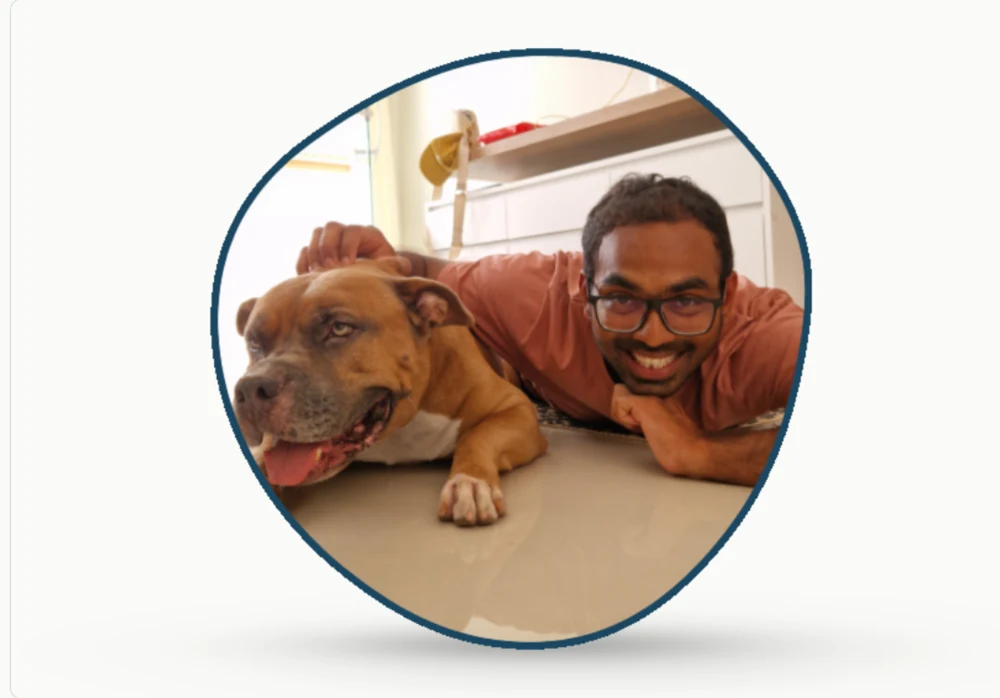
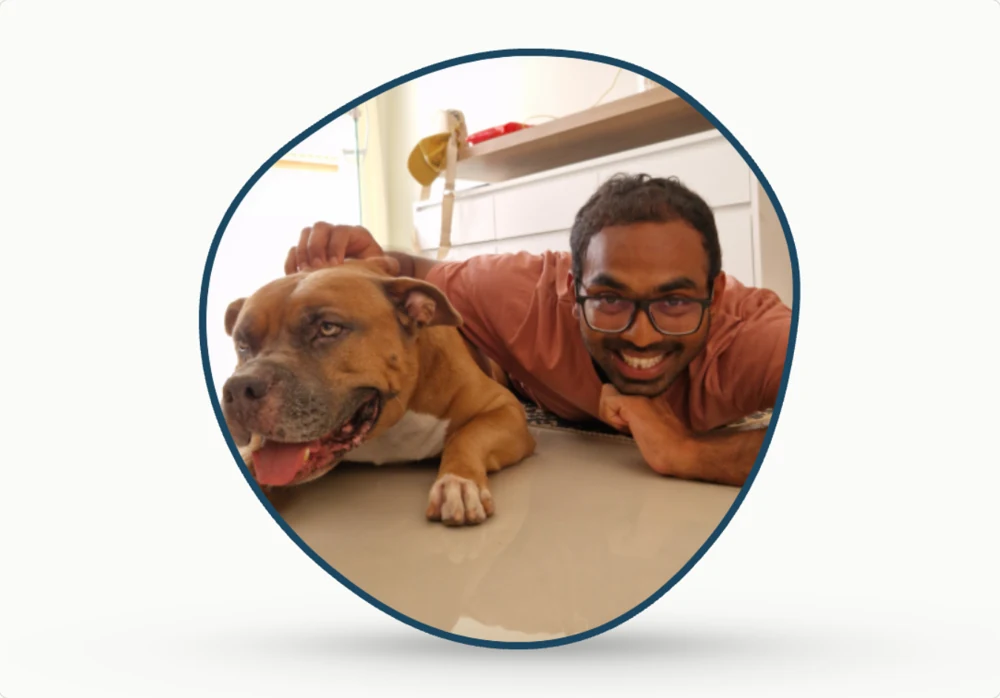
improved the Teaching page and CNRS model

Changed region(s): [[0.186, 0.0602, 0.837, 0.9327]]

diff --git a/projects/cnrs_site/projects/main/tour/src/mark.js b/projects/cnrs_site/projects/main/tour/src/mark.js
@@ -230,8 +230,10 @@ void main(){
     } catch {
       // The CNRS face remains usable if the portrait cannot be downloaded.
     }
-    const W = 1440,
-      H = 810,
+    // Sharpen the render without adding geometry or downloading larger assets.
+    // This target has 1.78x the previous pixel count (1440 x 810).
+    const W = 1920,
+      H = 1080,
       fb = g.createFramebuffer(),
       image = g.createTexture();
     g.activeTexture(g.TEXTURE0 + 8);
@@ -249,6 +251,33 @@ void main(){
     g.framebufferRenderbuffer(g.FRAMEBUFFER, g.DEPTH_ATTACHMENT, g.RENDERBUFFER, depth);
     if (g.checkFramebufferStatus(g.FRAMEBUFFER) !== g.FRAMEBUFFER_COMPLETE)
       throw Error('Mark target');
+    // Context antialiasing does not cover offscreen framebuffers. Multisample
+    // the badge itself, then resolve into the texture shared with the office.
+    // Keep the ordinary target for devices without compatible sample counts.
+    const colorSamples = g.getInternalformatParameter(g.RENDERBUFFER, g.RGBA8, g.SAMPLES),
+      depthSamples = g.getInternalformatParameter(g.RENDERBUFFER, g.DEPTH_COMPONENT16, g.SAMPLES),
+      samples = Math.max(0, ...colorSamples.filter((n) => n > 1 && n <= 4 && depthSamples.includes(n)));
+    let drawTarget = fb;
+    if (samples) {
+      const target = g.createFramebuffer(),
+        color = g.createRenderbuffer(),
+        depth = g.createRenderbuffer();
+      g.bindFramebuffer(g.FRAMEBUFFER, target);
+      for (const [buffer, format, attachment] of [
+        [color, g.RGBA8, g.COLOR_ATTACHMENT0],
+        [depth, g.DEPTH_COMPONENT16, g.DEPTH_ATTACHMENT],
+      ]) {
+        g.bindRenderbuffer(g.RENDERBUFFER, buffer);
+        g.renderbufferStorageMultisample(g.RENDERBUFFER, samples, format, W, H);
+        g.framebufferRenderbuffer(g.FRAMEBUFFER, attachment, g.RENDERBUFFER, buffer);
+      }
+      if (g.checkFramebufferStatus(g.FRAMEBUFFER) === g.FRAMEBUFFER_COMPLETE) drawTarget = target;
+      else {
+        g.deleteFramebuffer(target);
+        g.deleteRenderbuffer(color);
+        g.deleteRenderbuffer(depth);
+      }
+    }
     g.bindFramebuffer(g.FRAMEBUFFER, null);
     const sky = program(
         `#version 300 es
@@ -294,7 +323,7 @@ precision highp float;in vec2 st;uniform vec2 offset;out vec4 col;void main(){ve
           sp = Math.sin(pitch),
           shift = [mx, my];
         pose = { yaw, pitch, mx, my };
-        g.bindFramebuffer(g.FRAMEBUFFER, fb);
+        g.bindFramebuffer(g.FRAMEBUFFER, drawTarget);
         g.viewport(0, 0, W, H);
         g.disable(g.DEPTH_TEST);
         g.disable(g.CULL_FACE);
@@ -329,6 +358,11 @@ precision highp float;in vec2 st;uniform vec2 offset;out vec4 col;void main(){ve
           g.drawElements(g.TRIANGLES, o.count, g.UNSIGNED_SHORT, 0);
         }
         g.disable(g.CULL_FACE);
+        if (drawTarget !== fb) {
+          g.bindFramebuffer(g.READ_FRAMEBUFFER, drawTarget);
+          g.bindFramebuffer(g.DRAW_FRAMEBUFFER, fb);
+          g.blitFramebuffer(0, 0, W, H, 0, 0, W, H, g.COLOR_BUFFER_BIT, g.NEAREST);
+        }
         g.bindFramebuffer(g.FRAMEBUFFER, null);
         g.activeTexture(g.TEXTURE0 + 8);
         g.bindTexture(g.TEXTURE_2D, image);

diff --git a/projects/cnrs_site/projects/main/tour/index.html b/projects/cnrs_site/projects/main/tour/index.html
@@ -9,7 +9,7 @@
       content="A spatial portrait of robotics research. Pull back from a clay mark to a workstation, a laboratory, IHU Strasbourg, the city, France and Earth."
     />
     <title>Research Atlas — Durgesh H. Salunkhe</title>
-    <link rel="stylesheet" href="src/style.css?v=bba729c55259" />
+    <link rel="stylesheet" href="src/style.css?v=409917cead5c" />
     <script>
       if (location.hash === '#mini' || location.hash === '#mini-robot')
         document.documentElement.classList.add('atlas-mini');
@@ -75,7 +75,7 @@
         max-height: 88vh;
       }
     </style>
-    <link rel="stylesheet" href="src/bridge.css?v=bba729c55259" />
+    <link rel="stylesheet" href="src/bridge.css?v=409917cead5c" />
   </head>
   <body>
     <main class="shell">
@@ -559,7 +559,7 @@
       </div>
     </dialog>
     <script>
-      window.ATLAS_VERSION = 'bba729c55259';
+      window.ATLAS_VERSION = '409917cead5c';
     </script>
     <script>
       window.ATLAS_ASSETS = {
@@ -1137,20 +1137,20 @@
         },
       };
     </script>
-    <script src="src/orbital.js?v=bba729c55259"></script>
-    <script src="src/controls.js?v=bba729c55259"></script>
-    <script src="src/careers.js?v=bba729c55259"></script>
-    <script id="ik-kernel" src="src/kinematics.js?v=bba729c55259"></script>
-    <script src="src/playview.js?v=bba729c55259"></script>
-    <script src="src/mark.js?v=bba729c55259"></script>
-    <script src="src/glass.js?v=bba729c55259"></script>
-    <script src="src/playui.js?v=bba729c55259"></script>
-    <script src="src/renderer.js?v=bba729c55259"></script>
-    <script src="src/environment.js?v=bba729c55259"></script>
-    <script src="src/records.js?v=bba729c55259"></script>
-    <script src="src/city.js?v=bba729c55259"></script>
-    <script src="src/progressive.js?v=bba729c55259"></script>
-    <script src="src/tour.js?v=bba729c55259"></script>
+    <script src="src/orbital.js?v=409917cead5c"></script>
+    <script src="src/controls.js?v=409917cead5c"></script>
+    <script src="src/careers.js?v=409917cead5c"></script>
+    <script id="ik-kernel" src="src/kinematics.js?v=409917cead5c"></script>
+    <script src="src/playview.js?v=409917cead5c"></script>
+    <script src="src/mark.js?v=409917cead5c"></script>
+    <script src="src/glass.js?v=409917cead5c"></script>
+    <script src="src/playui.js?v=409917cead5c"></script>
+    <script src="src/renderer.js?v=409917cead5c"></script>
+    <script src="src/environment.js?v=409917cead5c"></script>
+    <script src="src/records.js?v=409917cead5c"></script>
+    <script src="src/city.js?v=409917cead5c"></script>
+    <script src="src/progressive.js?v=409917cead5c"></script>
+    <script src="src/tour.js?v=409917cead5c"></script>
     <script>
       (() => {
         const ch = /^#chapter-([0-6])$/.exec(location.hash);
@@ -1199,6 +1199,6 @@
         send('ready', isRobot ? 'robot' : 'atlas');
       })();
     </script>
-    <script src="src/bridge.js?v=bba729c55259"></script>
+    <script src="src/bridge.js?v=409917cead5c"></script>
   </body>
 </html>

diff --git a/projects/cnrs_site/styles.css b/projects/cnrs_site/styles.css
@@ -865,19 +865,13 @@ footer span {
   margin-top: 12px;
 }
 .phil {
-  border-left: 2px solid var(--brass);
-  padding: 0 18px;
-  margin: 16px 0 28px;
-  font: 17px/1.7 var(--serif);
+  margin: 0 0 28px;
   max-width: none;
 }
 .dirhead .phil p {
   max-width: none;
   margin: 0;
-  text-align: justify;
-}
-.dirhead .phil p + p {
-  margin-top: 1em;
+  text-align: start;
 }
 .empty {
   padding: 26px 0;
@@ -1954,7 +1948,8 @@ footer span {
   box-shadow: none !important;
   background-color: transparent !important;
   margin: 12px 0 0;
-  height: clamp(30px, 4.4vw, 58px);
+  /* Lift the artwork toward the navigation without shrinking its canvas. */
+  height: clamp(6px, calc(4.4vw - 24px), 34px);
   min-height: 0;
   overflow: visible;
   position: relative;
@@ -1970,7 +1965,7 @@ footer span {
 #marquee:focus-visible {
   inset: auto 0 0 0;
   width: 100%;
-  height: calc(100% + 92px);
+  height: calc(100% + 116px);
   pointer-events: none;
   outline: 0 !important;
   border: 0 !important;
@@ -2344,10 +2339,12 @@ body {
   flex-direction: column;
   justify-content: space-between;
 }
-#aboutcopy .abouttext p + p {
+#aboutcopy .abouttext p + p,
+.dirhead .phil p + p {
   margin-top: 12px;
 }
-#about h2 {
+#about h2,
+.philosophy-title {
   font-size: 32px;
   margin: 0 0 14px;
   letter-spacing: -0.025em;
@@ -2847,11 +2844,11 @@ summary:focus-visible {
       [data-theme='india'],
       [data-theme='france']
     ) {
-    height: clamp(26px, 6.2vw, 44px);
+    height: clamp(20px, calc(6.2vw - 6px), 38px);
     margin: 6px 0 0;
   }
   #marquee.clay-ready #word {
-    height: calc(100% + 64px);
+    height: calc(100% + 70px);
   }
   .switchrow {
     margin: 10px 0 10px;
@@ -2883,7 +2880,8 @@ summary:focus-visible {
   .abouttext {
     font-size: 14px;
   }
-  #about h2 {
+  #about h2,
+  .philosophy-title {
     font-size: 31px;
   }
   .band {
@@ -3317,16 +3315,16 @@ summary:focus-visible {
   opacity: 0;
 }
 .top [data-nav='home'] canvas {
-  background: center/contain no-repeat url(images/nav-home.png?v=bba729c55259);
+  background: center/contain no-repeat url(images/nav-home.png?v=409917cead5c);
 }
 .top [data-nav='publications'] canvas {
-  background: center/contain no-repeat url(images/nav-publications.png?v=bba729c55259);
+  background: center/contain no-repeat url(images/nav-publications.png?v=409917cead5c);
 }
 .top [data-nav='projects'] canvas {
-  background: center/contain no-repeat url(images/nav-projects.png?v=bba729c55259);
+  background: center/contain no-repeat url(images/nav-projects.png?v=409917cead5c);
 }
 .top [data-nav='teaching'] canvas {
-  background: center/contain no-repeat url(images/nav-teaching.png?v=bba729c55259);
+  background: center/contain no-repeat url(images/nav-teaching.png?v=409917cead5c);
 }
 .nav-live .top [data-nav] canvas {
   background-image: none;

diff --git a/projects/cnrs_site/index.html b/projects/cnrs_site/index.html
@@ -9,7 +9,7 @@
       name="description"
     />
     <title>Durgesh Salunkhe | Robotics</title>
-    <link href="styles.css?v=bba729c55259" rel="stylesheet" />
+    <link href="styles.css?v=409917cead5c" rel="stylesheet" />
   </head>
   <body>
     <a class="skip" href="#content">Skip to content</a>
@@ -81,7 +81,7 @@
                       id="atlas-preview"
                       class="atlas-preview"
                       alt="Profile photo on the reverse of a three-dimensional CNRS badge"
-                      src="images/previews/cnrs-profile.webp?v=bba729c55259"
+                      src="images/previews/cnrs-profile.webp?v=409917cead5c"
                       decoding="async"
                       fetchpriority="high"
                     />
@@ -253,12 +253,12 @@
       </div>
       <div id="playhost"></div>
     </dialog>
-    <script defer src="js/assets.js?v=bba729c55259"></script>
-    <script defer src="js/previews.js?v=bba729c55259"></script>
-    <script defer src="js/scene.js?v=bba729c55259"></script>
-    <script defer src="js/catalog.js?v=bba729c55259"></script>
-    <script defer src="js/site.js?v=bba729c55259"></script>
-    <script defer src="js/preview-controls.js?v=bba729c55259"></script>
-    <script defer src="js/occasion.js?v=bba729c55259"></script>
+    <script defer src="js/assets.js?v=409917cead5c"></script>
+    <script defer src="js/previews.js?v=409917cead5c"></script>
+    <script defer src="js/scene.js?v=409917cead5c"></script>
+    <script defer src="js/catalog.js?v=409917cead5c"></script>
+    <script defer src="js/site.js?v=409917cead5c"></script>
+    <script defer src="js/preview-controls.js?v=409917cead5c"></script>
+    <script defer src="js/occasion.js?v=409917cead5c"></script>
   </body>
 </html>

diff --git a/projects/cnrs_site/projects/main/tour/src/renderer.js b/projects/cnrs_site/projects/main/tour/src/renderer.js
@@ -546,11 +546,12 @@ precision highp float;uniform vec2 kind;out vec4 col;void main(){col=vec4(mix(ve
         solarDir = null,
       ) {
         const aspect = Math.max(0.01, canvas.clientWidth / canvas.clientHeight);
-        const scale = Math.min(
-          Math.max(1.25, devicePixelRatio || 1),
-          1.6,
-          1600 / Math.max(1, canvas.clientWidth),
-        );
+        const badgeView = progress <= 0.025,
+          scale = Math.min(
+            Math.max(1.25, devicePixelRatio || 1),
+            badgeView ? 2 : 1.6,
+            (badgeView ? 1920 : 1600) / Math.max(1, canvas.clientWidth),
+          );
         let W = Math.max(2, Math.round(canvas.clientWidth * scale)),
           H = Math.max(2, Math.round(canvas.clientHeight * scale));
         if (w !== W || h !== H) targets(W, H);

diff --git a/projects/cnrs_site/js/site.js b/projects/cnrs_site/js/site.js
@@ -687,8 +687,8 @@
             ? /* HTML */ `<div class="chips">${anchor('Google Scholar', sch)}</div>`
             : projects
               ? ''
-              : /* HTML */ `<h2>My teaching philosophy</h2>
-                  <div class="phil">
+              : /* HTML */ `<h2 class="philosophy-title">My teaching philosophy</h2>
+                  <div class="phil abouttext">
                     <p>
                       My teaching philosophy begins with a strong foundation in kinematics,
                       geometry, and dynamics. I aim to build on this foundation with learning

diff --git a/projects/cnrs_site/navigation-models.html b/projects/cnrs_site/navigation-models.html
@@ -316,8 +316,8 @@
         ><span>Rotate: drag or ← → · Restore view: R</span>
       </footer>
     </main>
-    <script src="lib/three.js?v=bba729c55259"></script>
-    <script src="js/navigation-models.js?v=bba729c55259"></script>
-    <script src="js/navigation-studies.js?v=bba729c55259"></script>
+    <script src="lib/three.js?v=409917cead5c"></script>
+    <script src="js/navigation-models.js?v=409917cead5c"></script>
+    <script src="js/navigation-studies.js?v=409917cead5c"></script>
   </body>
 </html>

diff --git a/projects/cnrs_site/projects/main/tour/src/progressive.js b/projects/cnrs_site/projects/main/tour/src/progressive.js
@@ -56,7 +56,7 @@ window.ProgressiveAtlas = {
           });
     }
     function drawLogo(move) {
-      const ratio = Math.min(devicePixelRatio || 1, 1.6),
+      const ratio = Math.min(devicePixelRatio || 1, 2),
         w = Math.max(2, Math.round(canvas.clientWidth * ratio)),
         h = Math.max(2, Math.round(canvas.clientHeight * ratio));
       if (canvas.width !== w || canvas.height !== h) {

diff --git a/projects/cnrs_site/js/assets.js b/projects/cnrs_site/js/assets.js
@@ -1,7 +1,7 @@
 /* Load a feature once, when its view needs it. Keep startup independent of WebGL. */
 window.SiteAssets = (() => {
   'use strict';
-  const version = 'bba729c55259',
+  const version = '409917cead5c',
     jobs = new Map();
   function script(path) {
     if (!jobs.has(path))

diff --git a/projects/cnrs_site/README.md b/projects/cnrs_site/README.md
@@ -92,6 +92,10 @@ The shader blends coverage across the photo-to-border boundary to smooth its edg
 The extrusion uses smooth shading without the face's grain or contact-shadow
 textures. The photograph fades out at grazing angles to keep its colours off
 the side wall when the CNRS face is visible.
+The badge renders at 1920 × 1080 with up to 4-sample antialiasing on its offscreen
+target and a 2× pixel ratio for the opening canvas. The target uses 1.78× the
+previous pixel count; `mark.glb` stays unchanged at 700,588 bytes. Devices without
+compatible multisample targets retain the ordinary rendering path.
 Clicking or tapping turns it between the photo
 and CNRS faces; Enter or Space does the same when it has keyboard focus. The first
 wheel gesture over the photo reveals CNRS, then further scrolling continues the
